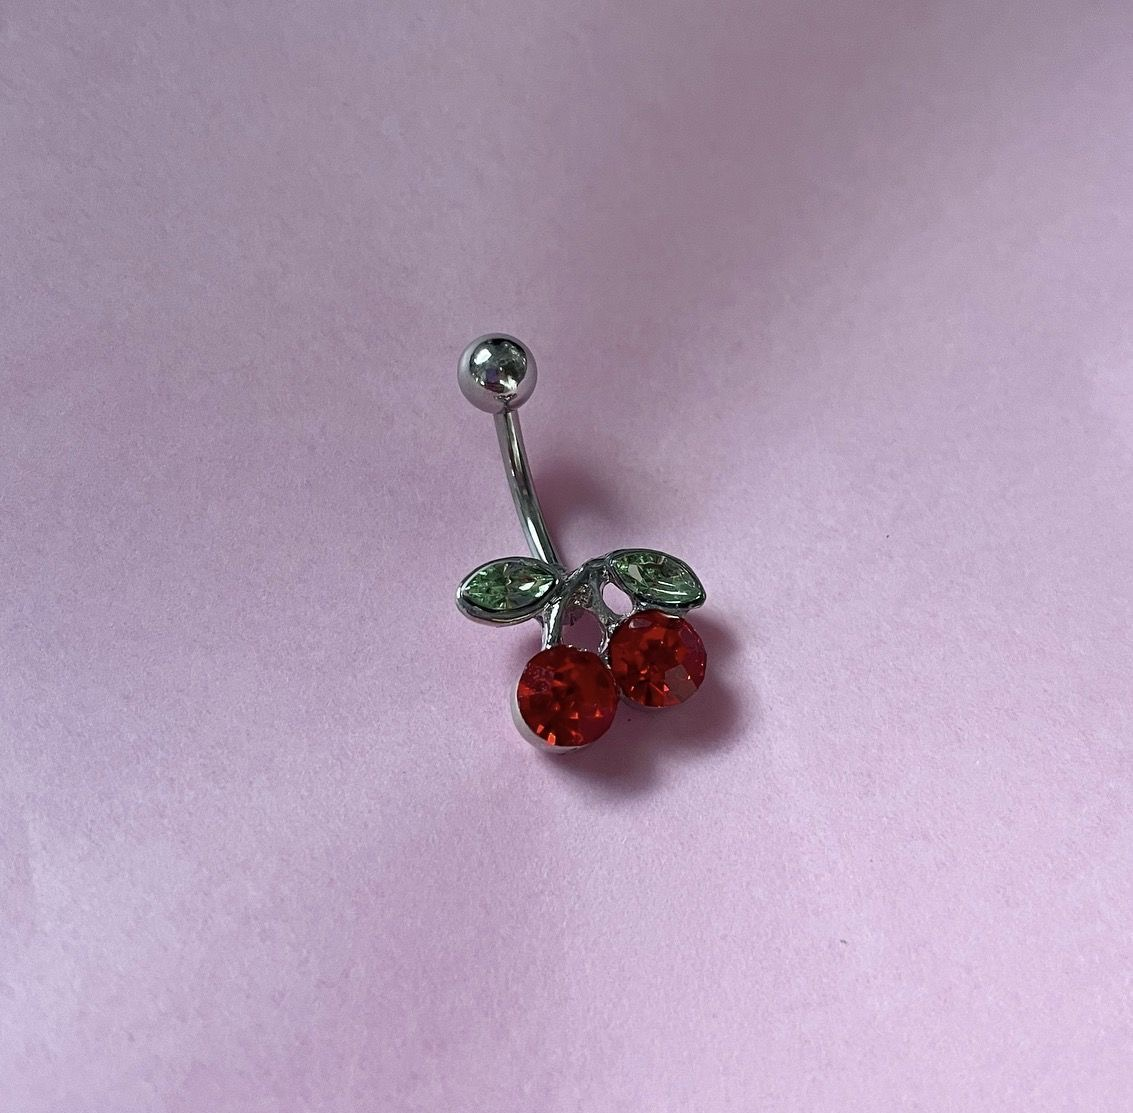
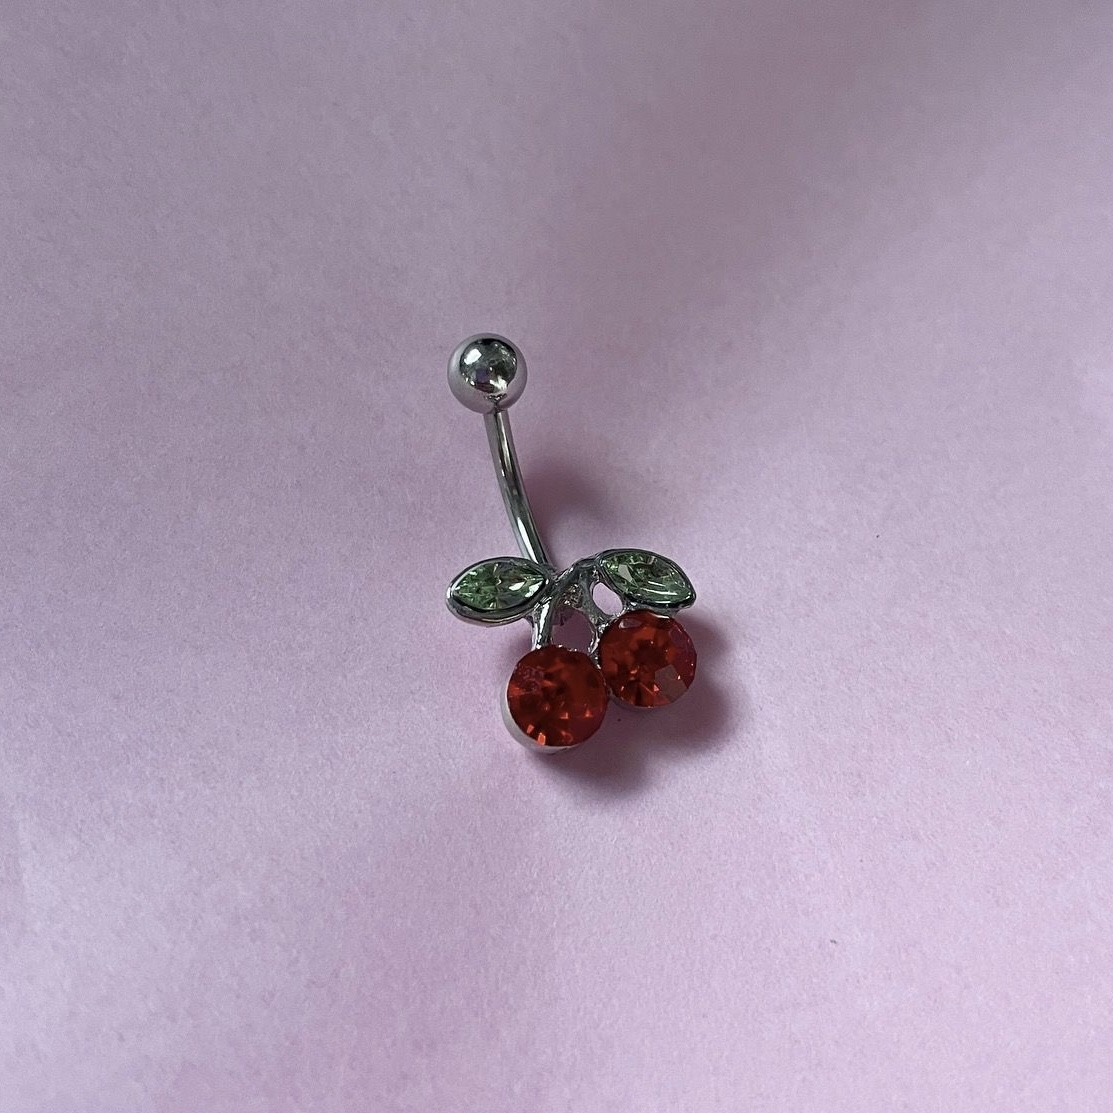
peircings revision

diff --git a/css/style.css b/css/style.css
@@ -242,7 +242,7 @@ body{
 }
 .right-button{
   background-color: #d8d3c7c6;
-  border: solid 2px #1a1a1a;
+  border: solid 2px #fff;
   margin-left: 0%;
   margin-top: 4%;
   color: #1a1a1a;
@@ -745,9 +745,9 @@ a{
   margin-left: 10%;
   font-size: 1.2vw;
   border: solid aliceblue 2px;
-  margin-top: -5%;
+  margin-top: 4vw;
   border-radius: 10px;
-  background-color: #1a1a1ae9;
+  background-color: #1a1a1a;
   color: #ffffff;
   transition: all ease 0.2s;
 }
@@ -763,7 +763,7 @@ a{
   height: 55%;
   background-color: #00000076;
   margin: 0;
-  margin-top: 3vw;
+  margin-top: -2vw;
   margin-left: 2vw;
 }
 .p-vid{
@@ -798,52 +798,38 @@ a{
   clip-path: inset(0 0 0 0);
 
 }
-
-.container-2{
+.p-bg-2{
   width: 100%;
-  height: 10vw;
-  display: flex;
-  margin-top: 6vw;
-  overflow: hidden;
-  -webkit-mask-image:linear-gradient(90deg, #fff 10%, #fff 100% ,transparent);
-  mask-image:linear-gradient(90deg, transparent #fff 20% ,#fff 100%, transparent);
+  height: 12.5vw;
+  background-color: rgba(255, 0, 0, 0);
+  margin: 0;
+  margin-top: 5.4vw;
 }
-.scroller{
-  display: flex;
-  gap: 20px;
-  animation: scroll 25s linear infinite;
-  animation-delay: calc(25s / -1);
+.p-aks{
+  width: 100%;
+  height: 100%;
+  margin: 0;
+  object-fit: cover;
+}
+.p-cover{
+  width: 100%;
+  height: 100%;
+  position: relative;
+  top: -12.9vw;
 
+  display: flex;
+  justify-content: center;
+  align-items: center;
 }
-.scroller:nth-child(2){
-  animation: scroll2 25s linear infinite;
-  animation-delay: calc(25s / -2);
+.p-cover-h1{
+  font-size:5vw ;
+  text-align: center;
+  color: #ffffff;
+  text-transform: capitalize;
 }
-.item{
-  height: fit-content;
-  font-size: 25px;
-  text-transform: uppercase;
-  font-weight: 500;
-  letter-spacing: 1.5px;
-  color: #fff;
-  padding: 7px 15px;
-  border-radius: 7px;
-  box-shadow: rgba(255, 255, 255, 0.192) 0px 0px 15px;
-}
-@keyframes scroll{
-  0%{
-      transform: translateX(100%);
-  }
-  100%{
-      transform: translateX(-100%);
-  }
-}
-
-@keyframes scroll2{
-  0%{
-      transform: translateX(0);
-  }
-  100%{
-      transform: translateX(-200%);
-  }
+.testt{
+  width: 100%;
+  height: 100vw;
+  background-color: #b7b3a9;
+  margin: 0;
 }

diff --git a/index.html b/index.html
@@ -105,34 +105,28 @@
                 <a href="#"><button class="braclets-btt" data-lang="br-btt">Explore All Earings</button></a>
             </div>
             <div class="p-color">
-                <img src="content/IMG_1741.JPG" alt="" class="p-img">
+                <img src="content/IMG_1747.JPG" alt="" class="p-img">
             </div>
             <div class="p-texts">
                 <h1 class="p-h1" data-lang="piercing">Piercings</h1>
-                <a href="#"><button class="p-btt" data-lang="p-btt">Explore All Piercings</button></a>
                 <div class="p-bg">
                     <video class="p-vid" autoplay loop muted>
                         <source src="content/p-vid-1.mp4" type="video/mp4">
                         Your browser does not support the video tag.
                     </video>
                 </div>
+                <a href="#"><button class="p-btt" data-lang="p-btt">Explore All Piercings</button></a>
             </div>
-            <div class="container-2">
-                <div class="scroller">
-                    <img src="content/IMG_1691.JPG" alt="">
-                    <img src="content/IMG_1692.JPG" alt="">
-                    <img src="content/IMG_1693.JPG" alt="">
-                    <img src="content/IMG_1694.JPG" alt="">
-                </div>
-                <div class="scroller">
-                    <img src="content/IMG_1696.JPG" alt="">
-                    <img src="content/IMG_1697.JPG" alt="">
-                    <img src="content/IMG_1698.JPG" alt="">
-                    <img src="content/IMG_1699.JPG" alt="">
-                    <img src="content/IMG_1694.JPG" alt="">
-                    
+            <div class="p-bg-2">
+                <img src="content/IMG_1756.JPG" alt="" class="p-aks">
+                <div class="p-cover">
+                    <h1 class="p-cover-h1">Shine like a star</h1>
                 </div>
             </div>
+           
+
+        </div>
+        <div class="testt">
 
         </div>
     </body>
